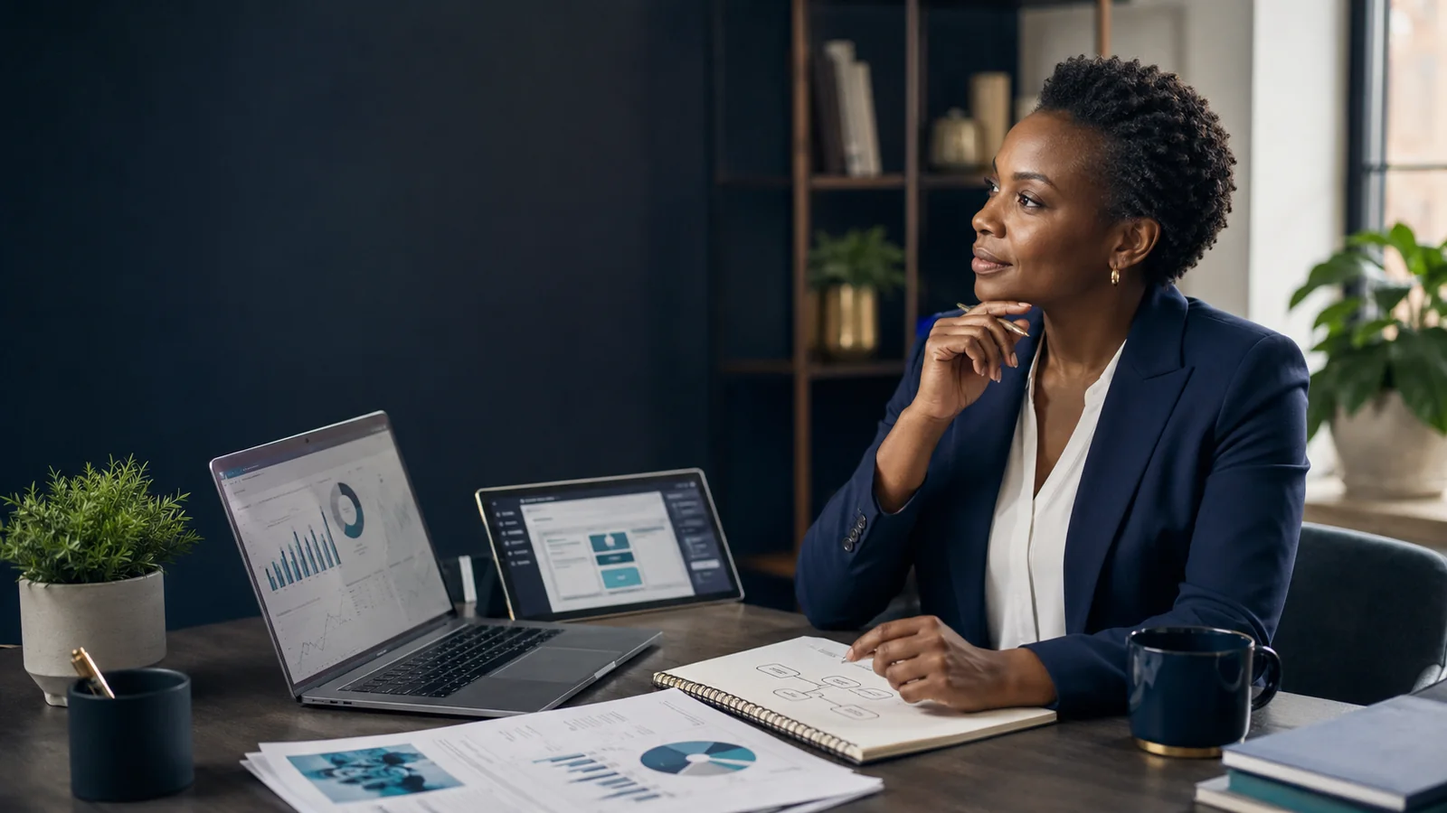
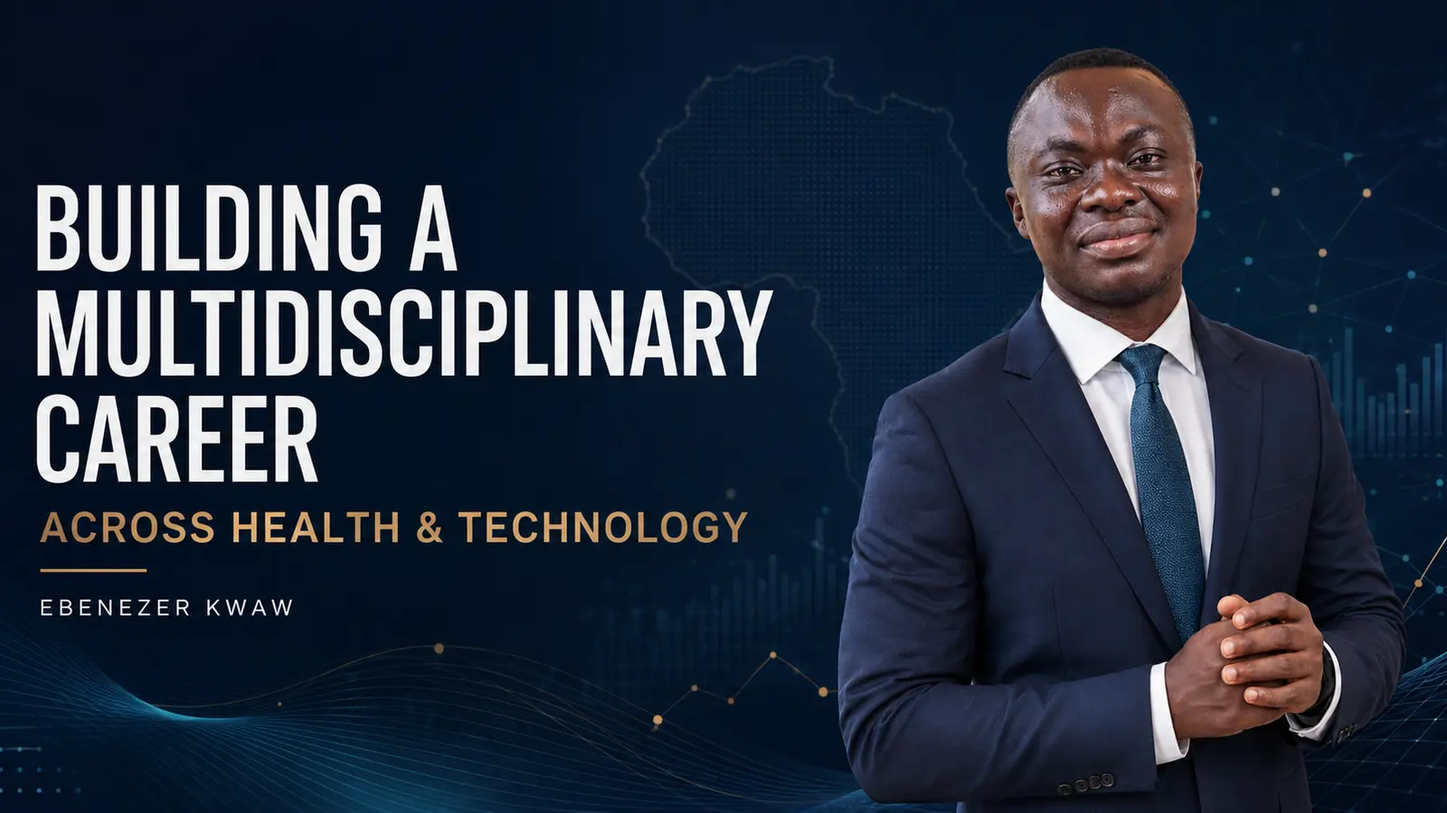
Publish multidisciplinary health and technology career article

diff --git a/insights/multidisciplinary-career.html b/insights/multidisciplinary-career.html
@@ -1,1 +1,66 @@
-<!doctype html><html lang="en"><head><meta charset="utf-8"><meta name="viewport" content="width=device-width,initial-scale=1"><title>Building across disciplines without losing your mission | Ebenezer Kwaw</title><meta name="description" content="How a clear problem focus can connect health, research, technology and communication."><link rel="canonical" href="https://kwaw-ebn.github.io/ebenezer-kwaw-personal-website/insights/multidisciplinary-career.html"><link rel="stylesheet" href="../assets/insights.css"><script type="application/ld+json">{"@context":"https://schema.org","@type":"Article","headline":"Building across disciplines without losing your mission","description":"How a clear problem focus can connect health, research, technology and communication.","author":{"@type":"Person","name":"Ebenezer Kwaw","url":"https://kwaw-ebn.github.io/ebenezer-kwaw-personal-website/"},"publisher":{"@type":"Person","name":"Ebenezer Kwaw"},"mainEntityOfPage":"https://kwaw-ebn.github.io/ebenezer-kwaw-personal-website/insights/multidisciplinary-career.html","datePublished":"2026-09-03","dateModified":"2026-09-03"}</script><meta property="og:image" content="https://kwaw-ebn.github.io/ebenezer-kwaw-personal-website/assets/insights/multidisciplinary-career-hero.webp"><meta name="twitter:card" content="summary_large_image"><meta name="twitter:image" content="https://kwaw-ebn.github.io/ebenezer-kwaw-personal-website/assets/insights/multidisciplinary-career-hero.webp"></head><body><header class="topbar"><nav class="nav container"><a class="brand" href="../"><span>EK</span>Ebenezer Kwaw</a><div class="navlinks"><a href="../#about">About</a><a href="../#impact">Impact</a><a href="./">Insights</a><a href="../#contact">Contact</a></div></nav></header><main><header class="article-hero"><div class="container article-hero-grid"><div class="article-hero-copy"><p class="eyebrow">Continuous Learning</p><h1>Building across disciplines without losing your mission</h1><div class="article-meta">By Ebenezer Kwaw · 4 min read</div></div><div class="article-hero-media"><img src="../assets/insights/multidisciplinary-career-hero.webp" alt="Multidisciplinary professional working across data, technology and strategy" width="1600" height="900" fetchpriority="high"></div></div></header><article class="article"><p class="lead">A multidisciplinary career can look fragmented from the outside. The solution is not to force every skill into one label; it is to become clear about the problem that connects them.</p><p>For me, public health is the mission. Research improves the questions, data strengthens the evidence, technology expands what is possible and communication helps people act. Each discipline adds a different capability to the same purpose.</p><p>Continuous learning becomes more useful when it is anchored in practice. Learn the next tool because it helps you understand a real problem, serve a real audience or build a more effective solution.</p><blockquote>Useful knowledge creates value when it reaches the right people early enough to improve a decision.</blockquote><a class="back" href="./">← Back to all insights</a></article></main><footer class="footer"><div class="container"><span>© 2026 Ebenezer Kwaw</span><span>Public Health · Data · Digital Innovation</span></div></footer></body></html>
+<!doctype html><html lang="en"><head><meta charset="utf-8"><meta name="viewport" content="width=device-width,initial-scale=1"><title>Building a Multidisciplinary Career Across Health and Technology | Ebenezer Kwaw</title><meta name="description" content="Explore how public health, data, AI and digital innovation can be combined to build a purposeful multidisciplinary career and strengthen health systems."><link rel="canonical" href="https://kwaw-ebn.github.io/ebenezer-kwaw-personal-website/insights/multidisciplinary-career.html"><link rel="stylesheet" href="../assets/insights.css"><meta property="og:type" content="article"><meta property="og:title" content="Building a Multidisciplinary Career Across Health and Technology"><meta property="og:description" content="How public health, research, data, AI and communication can become connected capabilities serving one mission."><meta property="og:url" content="https://kwaw-ebn.github.io/ebenezer-kwaw-personal-website/insights/multidisciplinary-career.html"><meta property="og:image" content="https://kwaw-ebn.github.io/ebenezer-kwaw-personal-website/assets/insights/multidisciplinary-career-hero.webp"><meta name="twitter:card" content="summary_large_image"><meta name="twitter:title" content="Building a Multidisciplinary Career Across Health and Technology"><meta name="twitter:description" content="How public health, research, data, AI and communication can become connected capabilities serving one mission."><meta name="twitter:image" content="https://kwaw-ebn.github.io/ebenezer-kwaw-personal-website/assets/insights/multidisciplinary-career-hero.webp"><script type="application/ld+json">{"@context":"https://schema.org","@type":"Article","headline":"Building a Multidisciplinary Career Across Health and Technology","description":"How public health, research, data, AI and communication can become connected capabilities serving one mission.","image":"https://kwaw-ebn.github.io/ebenezer-kwaw-personal-website/assets/insights/multidisciplinary-career-hero.webp","author":{"@type":"Person","name":"Ebenezer Kwaw","url":"https://kwaw-ebn.github.io/ebenezer-kwaw-personal-website/"},"publisher":{"@type":"Person","name":"Ebenezer Kwaw"},"mainEntityOfPage":"https://kwaw-ebn.github.io/ebenezer-kwaw-personal-website/insights/multidisciplinary-career.html","datePublished":"2026-09-03","dateModified":"2026-09-03","articleSection":"Career and Continuous Learning","keywords":["multidisciplinary career in health and technology","public health and technology careers","digital health career","AI in public health Africa"]}</script></head><body class="feature-article"><header class="topbar"><nav class="nav container"><a class="brand" href="../"><span>EK</span>Ebenezer Kwaw</a><div class="navlinks"><a href="../#about">About</a><a href="../#impact">Impact</a><a href="./">Insights</a><a href="../#contact">Contact</a></div></nav></header><main><header class="article-hero"><div class="container article-hero-grid"><div class="article-hero-copy"><p class="eyebrow">Career &amp; Continuous Learning</p><h1>Building a Multidisciplinary Career Across Health and Technology</h1><div class="article-meta">By Ebenezer Kwaw · 12 min read</div></div><div class="article-hero-media"><img src="../assets/insights/multidisciplinary-career-hero.webp" alt="Building a multidisciplinary career across health and technology by Ebenezer Kwaw" width="1600" height="900" fetchpriority="high"></div></div></header><article class="article">
+    <p>My career began in community nutrition and public health. Over time, my work exposed me to health data, program monitoring, research, digital communication and technology. This experience helped me recognize that the challenges facing health systems cannot always be solved through clinical or public-health knowledge alone. They increasingly require data analysis, digital tools, effective communication and responsible innovation.</p>
+    <p>This realization led me to begin building a multidisciplinary career across health and technology.</p>
+
+    <h2>Why health and technology belong together</h2>
+    <p>Public-health professionals regularly work with information. We collect data, monitor indicators, prepare reports, identify service gaps, coordinate interventions and evaluate outcomes.</p>
+    <p>However, collecting data is not the same as using it effectively.</p>
+    <p>Important information may remain scattered across spreadsheets, paper records, reporting platforms and departmental reports. Health workers may spend considerable time compiling figures without receiving timely insights that support decisions.</p>
+    <p>Technology can help close this gap.</p>
+    <p>Data dashboards can make trends easier to understand. Predictive models can help identify possible risks. Digital platforms can improve reporting and coordination. Artificial intelligence can support the analysis of large datasets and make complex information more accessible.</p>
+    <p>Technology is therefore not separate from public health. When designed responsibly, it can strengthen how public-health professionals understand problems, allocate resources, monitor programs and serve communities.</p>
+
+    <h2>My journey from public health into technology</h2>
+    <p>My professional foundation is in community nutrition and public health. Working within Ghana’s health system has given me practical experience in nutrition-program coordination, maternal and child health, monitoring and evaluation, supportive supervision, stakeholder engagement, community education, disease prevention and health reporting.</p>
+    <p>This work taught me how health programs operate beyond textbooks and policies. It showed me the realities of implementation: limited resources, inconsistent data, competing priorities, reporting demands and the need to coordinate different people and institutions.</p>
+    <p>As I worked with health information, I became increasingly interested in what could be achieved with better analytical and digital tools.</p>
+    <p>That interest led me to study data analytics, Python, machine learning, artificial intelligence, cloud technology, software development and digital marketing. I began exploring how these capabilities could be applied to health surveillance, program monitoring, disease-risk analysis, decision-support systems and public communication.</p>
+    <p><strong>I was not abandoning public health. I was expanding the range of tools I could use to contribute to it.</strong></p>
+
+    <h2>A multidisciplinary career is more than collecting skills</h2>
+    <p>Learning several subjects does not automatically create a multidisciplinary career. The real value comes from connecting those subjects around a clear purpose.</p>
+    <p>My public-health experience helps me understand health indicators, implementation challenges, community needs and the responsibilities involved in working with health information. Data analytics allows me to investigate patterns and communicate findings. Software and artificial intelligence offer ways to turn analysis into practical tools. Digital strategy helps make important information visible, understandable and actionable.</p>
+    <p>The goal is not to become disconnected professionals in several different industries. The goal is to develop a professional identity that uses knowledge from several disciplines to address a defined set of problems.</p>
+    <blockquote>To use data, technology, communication and public-health experience to strengthen decision-making and improve health outcomes.</blockquote>
+
+    <h2>The strengths of a multidisciplinary professional</h2>
+    <p>A software developer may know how to build a technically advanced health application but may not fully understand the workflow of a district health office. A public-health professional may understand the problem but lack the technical skills to translate the idea into a digital product. Someone who understands both areas can help connect these perspectives.</p>
+    <p>A multidisciplinary professional can:</p>
+    <ul><li>Translate real-world health needs into technical requirements</li><li>Explain technical concepts to nontechnical decision-makers</li><li>Identify when a digital solution is appropriate and when it is not</li><li>Support collaboration among health professionals, analysts, developers and program managers</li><li>Design tools that fit existing workflows and resource limitations</li><li>Recognize the ethical and privacy implications of health technology</li><li>Connect data collection with practical program decisions</li></ul>
+    <p>This ability to serve as a bridge may be one of the greatest strengths of a multidisciplinary career.</p>
+
+    <h2>Challenges involved in crossing disciplines</h2>
+    <p>The first challenge is professional identity. People may find it easier to understand a person with one conventional title than someone working across several areas. A multidisciplinary professional must therefore communicate a clear central mission rather than presenting an unrelated collection of skills.</p>
+    <p>The second challenge is depth. It is tempting to learn many tools without developing strong competence in any of them. The solution is to build a solid foundation in one domain while developing complementary skills that solve relevant problems.</p>
+    <p>The third challenge is continuous learning. Health guidance, data standards, software tools and AI capabilities continue to evolve. Working across these fields requires consistent learning and the humility to recognize when specialist support is needed.</p>
+    <p>There is also the challenge of credibility. A certificate may demonstrate learning, but practical work shows whether a person can apply that knowledge. Building prototypes, analysing realistic datasets, publishing thoughtful articles, contributing to teams and documenting lessons can provide stronger evidence of capability.</p>
+
+    <h2>How to build a multidisciplinary career intentionally</h2>
+    <h3>1. Begin with a core professional foundation</h3><p>Identify the field in which you possess the strongest education or practical experience. This becomes the foundation from which you explore related disciplines. My foundation is public health and nutrition. Technology extends this foundation; it does not replace it.</p>
+    <h3>2. Start with real problems</h3><p>Do not learn technology only because it is popular. Begin with problems you have observed: Why do health teams struggle to interpret routine data? How can district-level indicators be visualized more clearly? Can reporting processes be simplified? How can early warning signs be detected faster? How can public-health information be communicated more effectively?</p>
+    <h3>3. Learn transferable capabilities</h3><p>Programming languages and platforms may change, but analytical thinking, problem definition, data interpretation, research, communication, project management, ethical judgment, stakeholder engagement and continuous learning remain valuable.</p>
+    <h3>4. Build small, relevant solutions</h3><p>A useful prototype does not need to begin as a national platform. It can start as a dashboard, reporting tool, data-cleaning workflow, risk model, educational resource or simple web application. Small solutions allow you to test assumptions, receive feedback and understand what users genuinely need.</p>
+    <h3>5. Document your thinking</h3><p>Articles, presentations, demonstrations and case studies can show how you approach problems and attract collaborators who share similar interests. Document the context, reasoning, limitations, ethical considerations and lessons—not only the final product.</p>
+    <h3>6. Learn to work with specialists</h3><p>Strong solutions often require collaboration with epidemiologists, clinicians, statisticians, software engineers, health-information officers, designers, policymakers and community representatives. Knowing enough to communicate effectively across these groups is often more valuable than attempting to replace every specialist.</p>
+    <h3>7. Remain responsible and evidence-driven</h3><p>Technology should not be introduced into healthcare simply because it is impressive. Health-related systems must consider data privacy, security, bias, explainability, clinical limitations, local regulations, infrastructure and the possibility of harm. Artificial intelligence should support responsible professional judgment—not replace it without appropriate evidence and oversight.</p>
+
+    <h2>Building technology for African public-health realities</h2>
+    <p>African health systems present both significant challenges and important opportunities for innovation.</p>
+    <p>Solutions must account for realities such as limited connectivity, different levels of digital literacy, incomplete data, workforce constraints, fragmented platforms and resource limitations. Technology created without understanding these conditions may look impressive during a demonstration but fail during implementation.</p>
+    <p>Public-health technology for Africa should be designed with health workers and communities, not merely delivered to them. It should simplify work, integrate with existing systems where possible, protect sensitive information and provide insights that people can act upon.</p>
+    <p>My developing vision for <strong>FieldHealth Intelligence</strong> is influenced by this principle. The idea is to help public-health officers, health-information teams, program coordinators, monitoring and evaluation professionals, nutrition managers, NGOs and implementing partners transform field data into clearer and more timely intelligence.</p>
+    <p>The long-term value will not come from the sophistication of the technology alone. It will come from whether the technology helps professionals make better decisions.</p>
+
+    <h2>Creating a coherent professional identity</h2>
+    <p>A multidisciplinary career becomes stronger when every area of expertise supports one recognizable mission.</p>
+    <p>I do not see public health, nutrition, research, data, AI, software and digital communication as unrelated careers. I see them as connected capabilities.</p>
+    <p><strong>Public health helps me understand the problem.</strong></p><p><strong>Research and data help me examine the evidence.</strong></p><p><strong>Technology helps me develop practical solutions.</strong></p><p><strong>Communication helps people understand and use those solutions.</strong></p>
+    <p>This connection forms the foundation of my professional identity.</p>
+
+    <h2>Conclusion</h2>
+    <p>The future of work will require more professionals who can collaborate across traditional boundaries. Health systems need people who understand both human needs and technological possibilities. Technology teams need people who understand implementation, ethics, institutions and communities.</p>
+    <p>Building a multidisciplinary career is not about following every new trend. It is about selecting complementary capabilities and organizing them around a meaningful purpose.</p>
+    <p>My journey across health and technology is still developing. However, the direction is clear: to help transform health data into useful intelligence, strengthen public-health decision-making and contribute to responsible digital innovation in Africa and beyond.</p>
+    <section class="article-callout"><h2>Let’s continue the conversation.</h2><p>If you are working in public health, technology, research or digital transformation and see opportunities for collaboration, I would be glad to connect.</p><a class="back" href="/#contact">Contact Me ↗</a></section>
+    <div class="author-box"><p><strong>Ebenezer Kwaw</strong><br>Public health, data and digital innovation professional based in Ghana.</p></div>
+  <a class="back" href="./">← Back to all insights</a></article></main><footer class="footer"><div class="container"><span>© 2026 Ebenezer Kwaw</span><span>Public Health · Data · Digital Innovation</span></div></footer></body></html>

diff --git a/insights/index.html b/insights/index.html
@@ -1,1 +1,1 @@
-<!doctype html><html lang="en"><head><meta charset="utf-8"><meta name="viewport" content="width=device-width,initial-scale=1"><title>Insights | Ebenezer Kwaw</title><meta name="description" content="Articles by Ebenezer Kwaw on public health, data science, artificial intelligence, SEO, AEO, digital health and professional growth."><link rel="canonical" href="https://kwaw-ebn.github.io/ebenezer-kwaw-personal-website/insights/"><link rel="stylesheet" href="../assets/insights.css"><script type="application/ld+json">{"@context":"https://schema.org","@type":"Blog","name":"Insights by Ebenezer Kwaw","url":"https://kwaw-ebn.github.io/ebenezer-kwaw-personal-website/insights/","author":{"@type":"Person","name":"Ebenezer Kwaw"}}</script></head><body><header class="topbar"><nav class="nav container"><a class="brand" href="../"><span>EK</span>Ebenezer Kwaw</a><div class="navlinks"><a href="../#about">About</a><a href="../#impact">Impact</a><a href="./">Insights</a><a href="../#contact">Contact</a></div></nav></header><main><section class="hero"><div class="container"><p class="eyebrow">Insights by Ebenezer Kwaw</p><h1>Ideas for stronger systems.</h1><p>Practical perspectives at the intersection of public health, data, artificial intelligence, digital strategy and continuous learning.</p><div class="hero-meta"><span>Public Health</span><span>Data & AI</span><span>Digital Innovation</span><span>Professional Growth</span></div></div></section><section class="section"><div class="container"><div class="section-head"><div><p class="eyebrow">Latest writing</p><h2>Articles and perspectives</h2></div><p>Evidence-led thinking shaped by frontline experience, technology and implementation realities.</p></div><div class="grid"><a class="card" href="why-ai-projects-in-public-health-fail.html"><img class="card-image" src="../assets/insights/ai-public-health-workflow-design-hero.jpg" alt="Public health professional reviewing artificial intelligence insights" width="800" height="450" loading="lazy"><span class="number">06 · AI in Public Health</span><h2>Why AI Projects in Public Health Fail and How Workflow First Design Can Make Them Useful</h2><p>A practical guide to designing artificial intelligence around real decisions, people, data and public health workflows.</p><span class="read">Read article →</span></a><a class="card" href="responsible-ai-public-health.html"><img class="card-image" src="../assets/insights/responsible-ai-public-health-hero.webp" alt="Responsible AI in public health" width="800" height="450" loading="lazy"><span class="number">01 · Artificial Intelligence</span><h2>Responsible AI must begin with the realities of implementation</h2><p>Why useful health technology starts with workflows, evidence and people—not novelty.</p><span class="read">Read article →</span></a><a class="card" href="health-data-actionable-intelligence.html"><img class="card-image" src="../assets/insights/health-data-actionable-intelligence-hero.webp" alt="Health data for actionable intelligence" width="800" height="450" loading="lazy"><span class="number">02 · Health Data</span><h2>Moving from data collection to actionable intelligence</h2><p>A practical lens for making routine information more useful to programme teams.</p><span class="read">Read article →</span></a><a class="card" href="multidisciplinary-career.html"><img class="card-image" src="../assets/insights/multidisciplinary-career-hero.webp" alt="Building a multidisciplinary career" width="800" height="450" loading="lazy"><span class="number">03 · Continuous Learning</span><h2>Building across disciplines without losing your mission</h2><p>How a clear problem focus can connect health, research, technology and communication.</p><span class="read">Read article →</span></a><a class="card" href="faq-section-aeo.html"><img class="card-image" src="../assets/insights/faq-aeo-hero.webp" alt="FAQ sections for answer engine optimization" width="800" height="450" loading="lazy"><span class="number">04 · Answer Engine Optimization</span><h2>Should Every Blog Post Have an FAQ Section for AEO?</h2><p>A practical guide to deciding when FAQ sections support answer engine optimization, user intent and content clarity—and when they add unnecessary clutter.</p><span class="read">Read article →</span></a><a class="card" href="public-health-dashboards-real-workflows.html"><img class="card-image" src="../assets/insights/public-health-dashboard-workflows-hero.webp" alt="Public-health team using a dashboard to support decisions" width="800" height="450" loading="lazy"><span class="number">05 · Public Health Data</span><h2>From Dashboard to Decision: Why Public Health Data Tools Must Fit Real Workflows</h2><p>A practical framework for designing public-health dashboards that fit real workflows, strengthen interpretation and support timely decisions.</p><span class="read">Read article →</span></a></div><div class="newsletter"><h2>A growing library of practical ideas.</h2><p>New articles can be published here while the main website remains focused and concise.</p></div></div></section></main><footer class="footer"><div class="container"><span>© 2026 Ebenezer Kwaw</span><span>Public Health · Data · Digital Innovation</span></div></footer></body></html>
+<!doctype html><html lang="en"><head><meta charset="utf-8"><meta name="viewport" content="width=device-width,initial-scale=1"><title>Insights | Ebenezer Kwaw</title><meta name="description" content="Articles by Ebenezer Kwaw on public health, data science, artificial intelligence, SEO, AEO, digital health and professional growth."><link rel="canonical" href="https://kwaw-ebn.github.io/ebenezer-kwaw-personal-website/insights/"><link rel="stylesheet" href="../assets/insights.css"><script type="application/ld+json">{"@context":"https://schema.org","@type":"Blog","name":"Insights by Ebenezer Kwaw","url":"https://kwaw-ebn.github.io/ebenezer-kwaw-personal-website/insights/","author":{"@type":"Person","name":"Ebenezer Kwaw"}}</script></head><body><header class="topbar"><nav class="nav container"><a class="brand" href="../"><span>EK</span>Ebenezer Kwaw</a><div class="navlinks"><a href="../#about">About</a><a href="../#impact">Impact</a><a href="./">Insights</a><a href="../#contact">Contact</a></div></nav></header><main><section class="hero"><div class="container"><p class="eyebrow">Insights by Ebenezer Kwaw</p><h1>Ideas for stronger systems.</h1><p>Practical perspectives at the intersection of public health, data, artificial intelligence, digital strategy and continuous learning.</p><div class="hero-meta"><span>Public Health</span><span>Data & AI</span><span>Digital Innovation</span><span>Professional Growth</span></div></div></section><section class="section"><div class="container"><div class="section-head"><div><p class="eyebrow">Latest writing</p><h2>Articles and perspectives</h2></div><p>Evidence-led thinking shaped by frontline experience, technology and implementation realities.</p></div><div class="grid"><a class="card" href="why-ai-projects-in-public-health-fail.html"><img class="card-image" src="../assets/insights/ai-public-health-workflow-design-hero.jpg" alt="Public health professional reviewing artificial intelligence insights" width="800" height="450" loading="lazy"><span class="number">06 · AI in Public Health</span><h2>Why AI Projects in Public Health Fail and How Workflow First Design Can Make Them Useful</h2><p>A practical guide to designing artificial intelligence around real decisions, people, data and public health workflows.</p><span class="read">Read article →</span></a><a class="card" href="responsible-ai-public-health.html"><img class="card-image" src="../assets/insights/responsible-ai-public-health-hero.webp" alt="Responsible AI in public health" width="800" height="450" loading="lazy"><span class="number">01 · Artificial Intelligence</span><h2>Responsible AI must begin with the realities of implementation</h2><p>Why useful health technology starts with workflows, evidence and people—not novelty.</p><span class="read">Read article →</span></a><a class="card" href="health-data-actionable-intelligence.html"><img class="card-image" src="../assets/insights/health-data-actionable-intelligence-hero.webp" alt="Health data for actionable intelligence" width="800" height="450" loading="lazy"><span class="number">02 · Health Data</span><h2>Moving from data collection to actionable intelligence</h2><p>A practical lens for making routine information more useful to programme teams.</p><span class="read">Read article →</span></a><a class="card" href="multidisciplinary-career.html"><img class="card-image" src="../assets/insights/multidisciplinary-career-hero.webp" alt="Ebenezer Kwaw featured on an article about health and technology careers" width="1600" height="900" loading="lazy"><span class="number">03 · Career &amp; Continuous Learning</span><h2>Building a Multidisciplinary Career Across Health and Technology</h2><p>How public health, research, data, AI and communication can become connected capabilities serving one mission.</p><span class="read">Read article →</span></a><a class="card" href="faq-section-aeo.html"><img class="card-image" src="../assets/insights/faq-aeo-hero.webp" alt="FAQ sections for answer engine optimization" width="800" height="450" loading="lazy"><span class="number">04 · Answer Engine Optimization</span><h2>Should Every Blog Post Have an FAQ Section for AEO?</h2><p>A practical guide to deciding when FAQ sections support answer engine optimization, user intent and content clarity—and when they add unnecessary clutter.</p><span class="read">Read article →</span></a><a class="card" href="public-health-dashboards-real-workflows.html"><img class="card-image" src="../assets/insights/public-health-dashboard-workflows-hero.webp" alt="Public-health team using a dashboard to support decisions" width="800" height="450" loading="lazy"><span class="number">05 · Public Health Data</span><h2>From Dashboard to Decision: Why Public Health Data Tools Must Fit Real Workflows</h2><p>A practical framework for designing public-health dashboards that fit real workflows, strengthen interpretation and support timely decisions.</p><span class="read">Read article →</span></a></div><div class="newsletter"><h2>A growing library of practical ideas.</h2><p>New articles can be published here while the main website remains focused and concise.</p></div></div></section></main><footer class="footer"><div class="container"><span>© 2026 Ebenezer Kwaw</span><span>Public Health · Data · Digital Innovation</span></div></footer></body></html>
